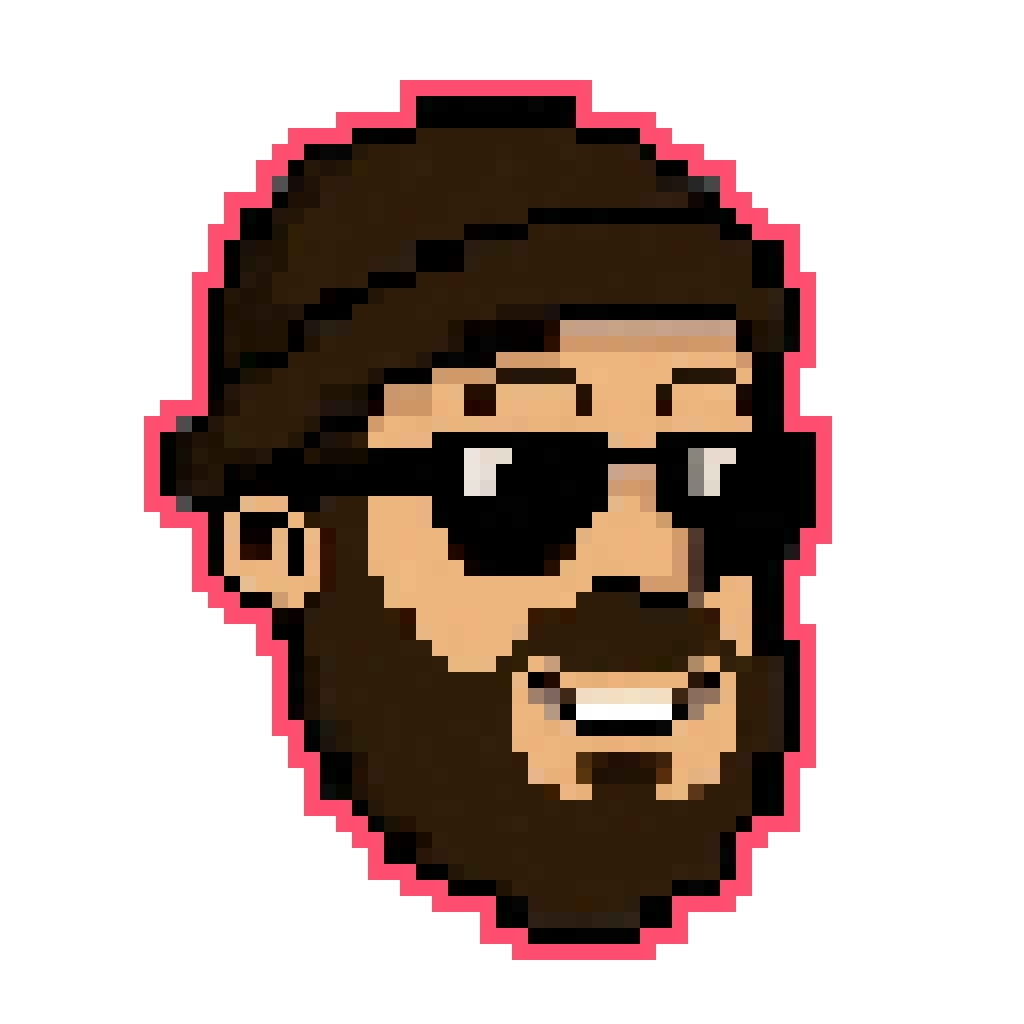
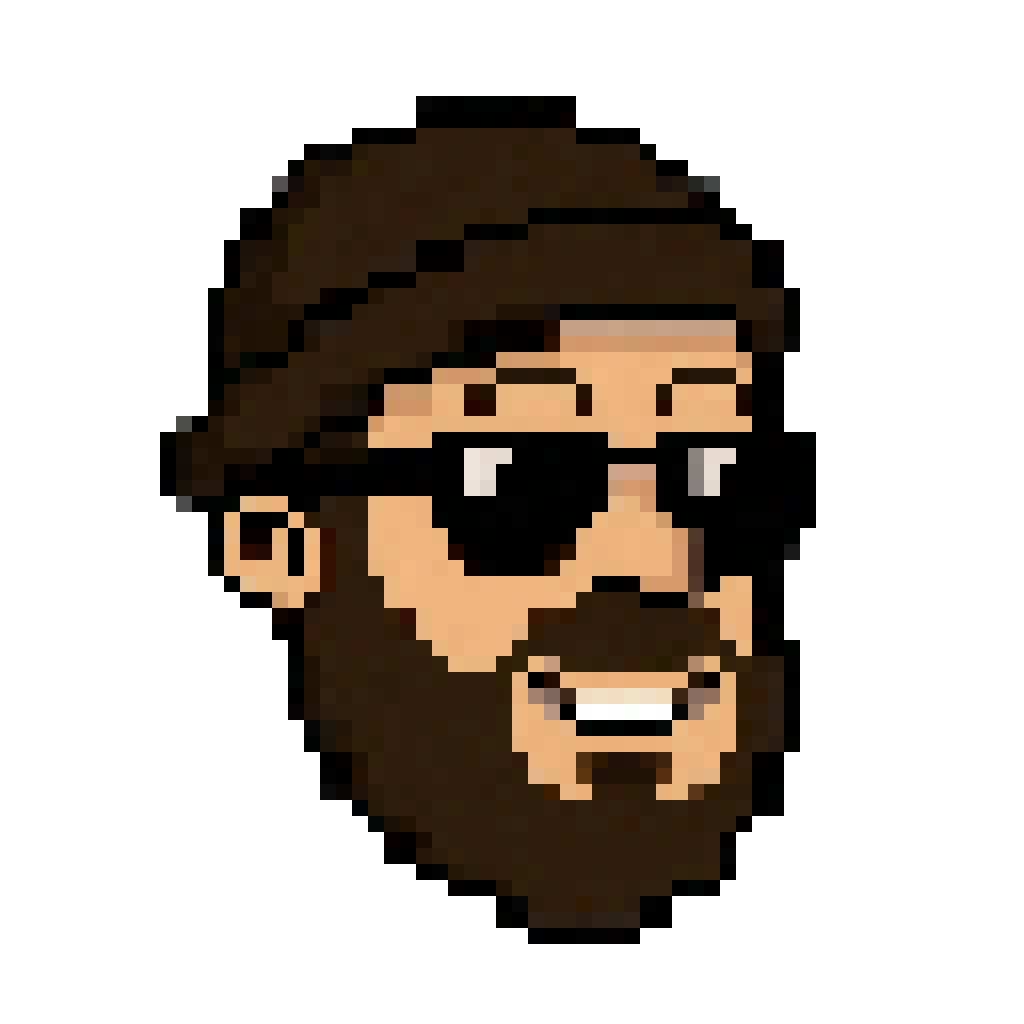
chore(release): rebuild PWA assets for v0.6.0
ciao/web/static/ is tracked because the wheel serves from there, so the built
index.html has to reference the asset hashes of the code actually shipping.
Rebuilt after the last source change: accent colours, the workspace-registry
work, and the recompressed face images.

Changed region(s): [[0.125, 0.0625, 0.8125, 0.9375]]

diff --git a/ciao/web/static/index.html b/ciao/web/static/index.html
@@ -13,8 +13,8 @@
     <link rel="icon" type="image/png" sizes="16x16" href="/icons/icon-16.png" />
     <link rel="apple-touch-icon" sizes="180x180" href="/icons/icon-180.png" />
     <title>Ciaobot</title>
-    <script type="module" crossorigin src="/assets/index-G4uhTXKb.js"></script>
-    <link rel="stylesheet" crossorigin href="/assets/index-C2VgFOse.css">
+    <script type="module" crossorigin src="/assets/index-DZ60itEy.js"></script>
+    <link rel="stylesheet" crossorigin href="/assets/index-BjLAekvA.css">
   </head>
   <body>
     <div id="app"></div>
